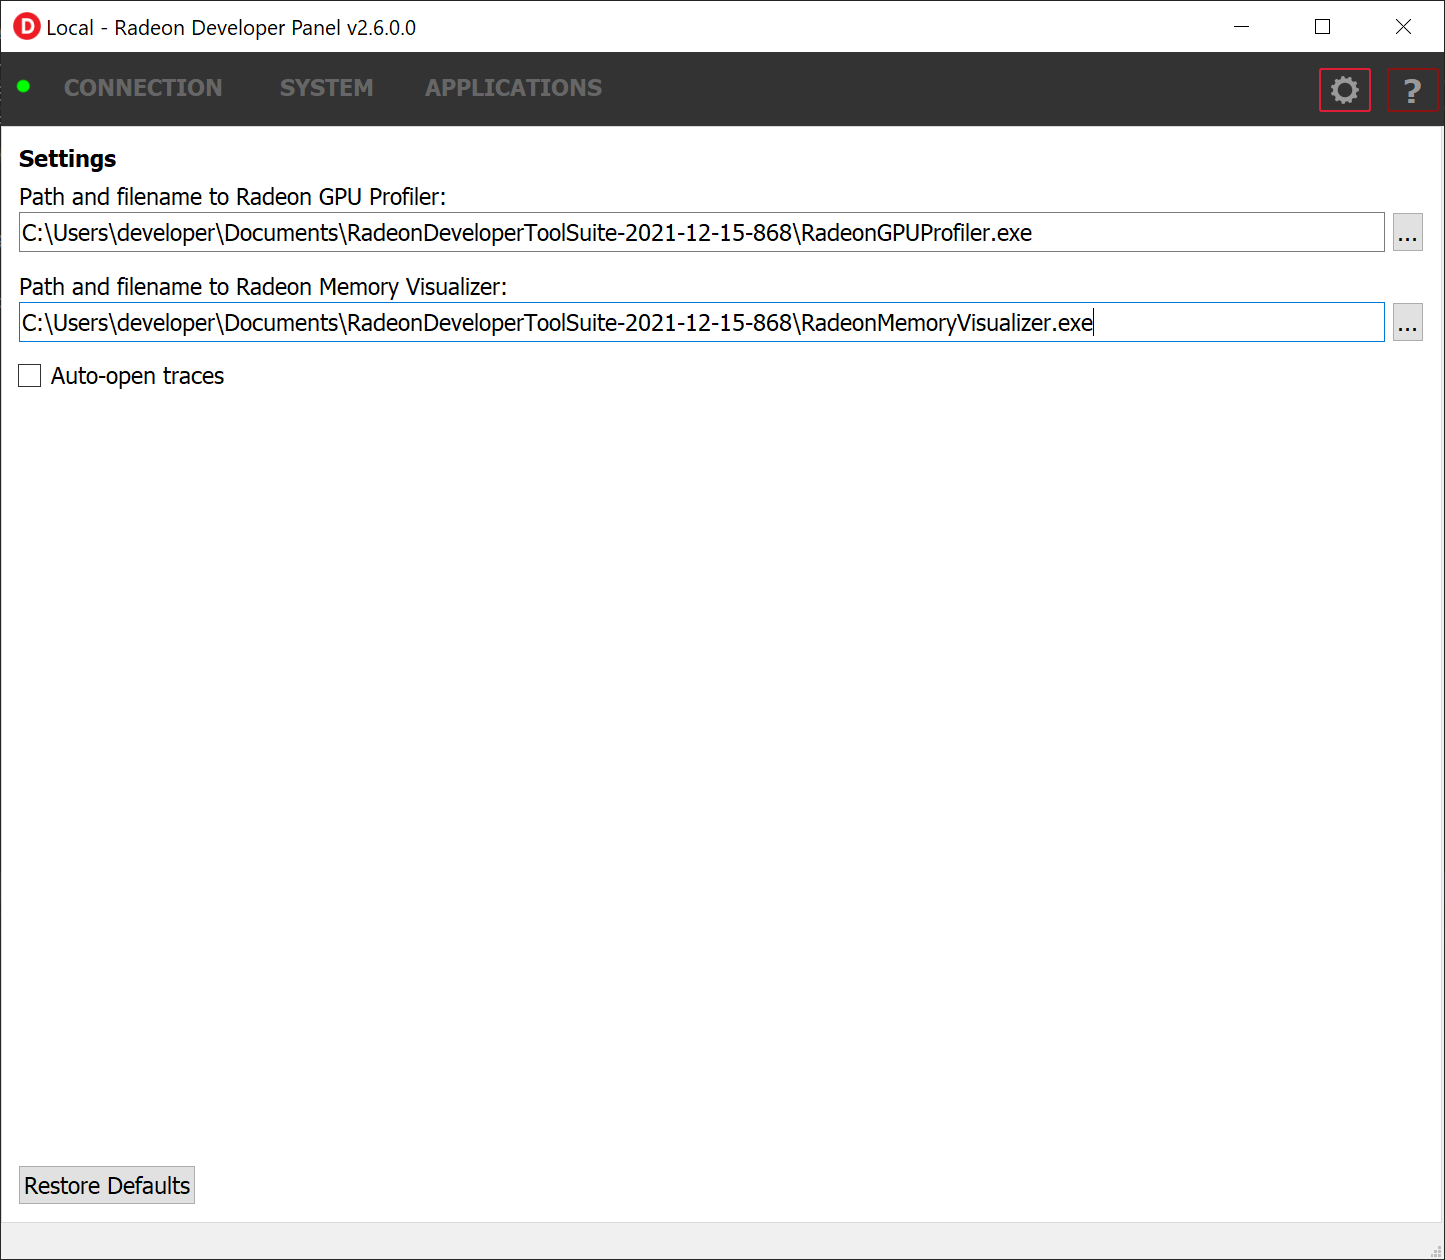
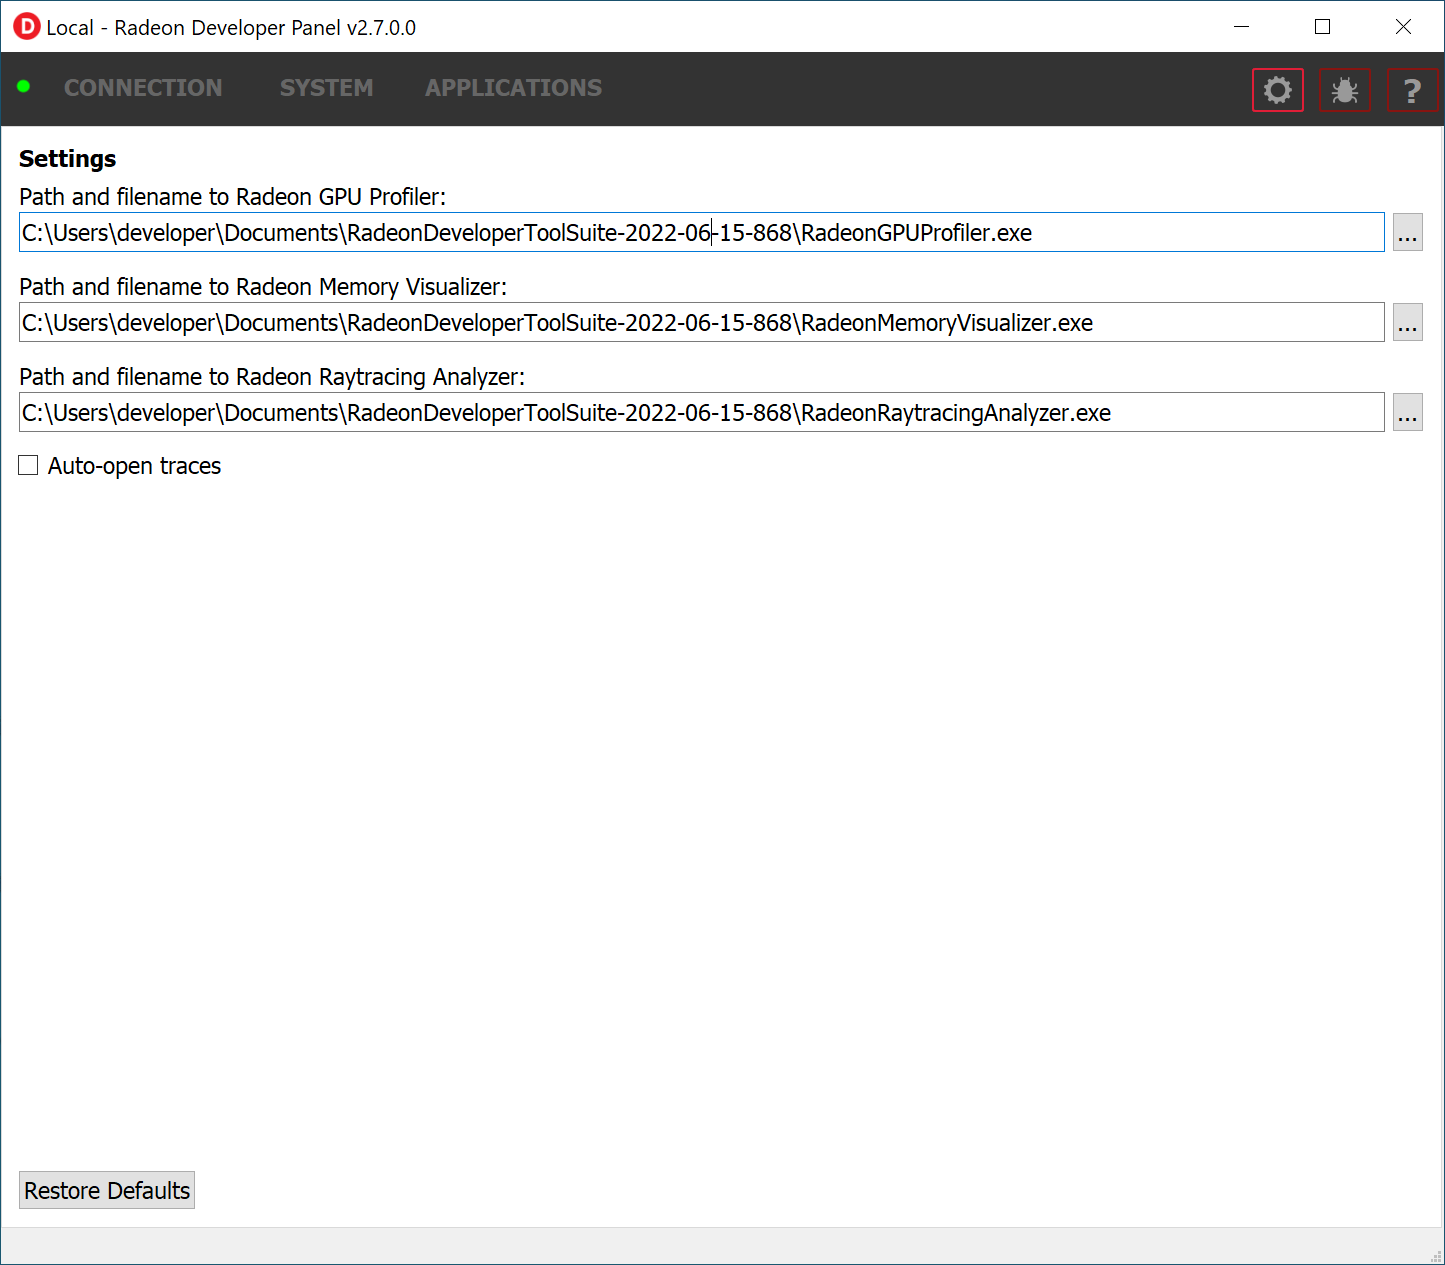
Update documentation for version 2.7 release

diff --git a/docs/source/_static/theme_overrides.css b/docs/source/_static/theme_overrides.css
@@ -1,13 +1,1 @@
-
-
-img {
-  max-width: 100%;
-  max-height: auto;
-  box-shadow: 6px 6px #eee;
-  -ms-interpolation-mode: bicubic;
-  border: 1px solid #ccc;
-}
-
-table {
-	font-size: 12px;
-}
+/* Copyright (c) 2022 AMD Inc. All rights reserved. */

diff --git a/docs/source/conf.py b/docs/source/conf.py
@@ -54,9 +54,9 @@ author = u'AMD Developer Tools'
 # built documents.
 #
 # The short X.Y version.
-version = u'2.6.1'
+version = u'2.7.0'
 # The full version, including alpha/beta/rc tags.
-release = u'2.6.1'
+release = u'2.7.0'
 
 # The language for content autogenerated by Sphinx. Refer to documentation
 # for a list of supported languages.
@@ -116,7 +116,7 @@ html_static_path = ['_static']
 # file works better with read the docs (more so than specifying it via the
 # html_context tag)
 def setup(app):
-    app.add_stylesheet('theme_overrides.css')
+    app.add_css_file('theme_overrides.css')
 
 
 html_show_sourcelink = False

diff --git a/docs/source/index.rst b/docs/source/index.rst
@@ -27,14 +27,19 @@ and GCN hardware. The suite is comprised of the following software:
 -  **Radeon Memory Visualizer (RMV)** - A GUI tool used to visualize and analyze
    the memory trace data.
 
+-  **Radeon Raytracing Analyzer (RRA)** - A GUI tool used to visualize and analyze
+   the raytracing data.
+
    This document describes how the Radeon Developer Panel can be used to capture
-   a profile or collect a memory trace for an application on AMD RDNA and GCN graphics hardware. The
+   a profile, memory trace or a raytracing scene for an application on AMD RDNA and GCN graphics hardware. The
    Radeon Developer Panel connects to the Radeon Developer Service in
-   order to collect a profile or trace.
+   order to collect a profile, trace or scene.
 
    **RGP documentation:** http://radeon-gpuprofiler.readthedocs.io/en/latest/
 
    **RMV documentation:** https://radeon-memory-visualizer.readthedocs.io/en/latest/
+
+   **RRA documentation:** http://radeon-raytracing-analyzer.readthedocs.io/en/latest/
 
    **Note:** By default, the driver allocates a maximum of 75 MB video
    memory per Shader Engine to capture RGP profiles. The driver allocates
@@ -78,6 +83,8 @@ Graphics APIs, RDNA and GCN hardware, and operating systems
 
 -  Ubuntu 20.04 LTS (Vulkan only)
 
+-  Ubuntu 22.04 LTS (Vulkan only)
+
 Compute APIs, RDNA and GCN hardware, and operating systems
 --------------------------------------------------------------------
 
@@ -107,7 +114,7 @@ Initial setup
 =============
 
 **IMPORTANT:**
-      The application you want to profile or trace must **NOT** already be
+      The application you want to profile, trace or capture scenes from must **NOT** already be
       running. The panel needs to be configured in advance of starting your
       application.
 
@@ -182,7 +189,7 @@ My applications
 ---------------
 
 The **My applications** pane in Radeon Developer Panel contains the list of applications the user
-will want to connect with to profile or trace.
+will want to connect with to capture a profile, trace or scene from.
 
 There are two modes of connection available.
 
@@ -216,6 +223,14 @@ start a driver connection.
 When a connection to the client application has
 been established, the panel will then switch to the **Applications** tab.
 
+When in **Basic Mode**, the global workflow can also be changed in the **Applications** tab. The dropdown on this tab is synced with the one in the **My applications** pane.
+
+.. image:: media/Global_Workflow_1.png
+
+In **Advanced Mode**, the workflow for a specific application can also be changed by selecting it in the **Applications** tab and changing the Workflow dropdown. Any changes made to this dropdown will be reflected in the **My applications** pane.
+
+.. image:: media/Advanced_Mode_App_Workflow_1.png
+
 .. _MyWorkflows:
 
 My workflows
@@ -224,12 +239,12 @@ My workflows
 The **My workflows** pane in Radeon Developer Panel allows the user to specify a set of enabled features and pre-launch
 configuration options to be used when connecting an application.
 
-Defining a workflow to contain these pre-launch settings such as the profile/trace output
+Defining a workflow to contain these pre-launch settings such as the profile/trace/scene output
 path or capture mode allows for re-use of the settings across multiple applications.
 
 .. image:: media/Workflow_1.png
 
-Each workflow contains a list of features such as **Profiling**, **MemoryTrace**, or **DeviceClocks** which
+Each workflow contains a list of features such as **Profiling**, **MemoryTrace**, **Raytracing**, or **DeviceClocks** which
 can be enabled or disabled
 
 There are also configuration options available for these features:
@@ -277,6 +292,16 @@ The following are the configurable options for memory trace
 
 .. image:: media/Workflow_MemoryTrace_Config.png
 
+**Raytracing Trace Configuration**
+
+The following are the configurable options for raytracing
+
+- **Output Path**:
+   * Defines the output path for saving captured raytracing scenes
+   * Use the macro **$(APP_NAME)** to insert the connected application's name into path
+
+.. image:: media/Workflow_Raytracing_Config.png
+
 .. _BlockedApplications:
 
 Blocked applications
@@ -316,6 +341,8 @@ The profiling UI has the following elements:
 
 - **Collect counters** - Enables capturing GPU cache counter data. Systems with an AMD Radeon RX 6000 series GPU will also collect raytracing counter data.
 
+- **Delay capture** - If this is enabled, pressing the capture profile button or triggering the hotkey will first wait the entered number of milliseconds before capturing a profile.
+
 - **Recently collected profiles** - Displays any recently collected profiles found in the output directory
 
 Capturing a profile can be achieved by the following:
@@ -344,14 +371,14 @@ Settings
 At any time the Radeon Developer Panel settings can be accessed by clicking the gear button in the upper right corner. This will open the
 settings pane.
 
-After capturing a profile or trace for an application, it is often desirable to open the output
-file using the associated tool such as **Radeon GPU Profiler** and **Radeon Memory Visualizer**.
+After capturing a profile, trace or scene from an application, it is often desirable to open the output
+file using the associated tool such as **Radeon GPU Profiler**, **Radeon Memory Visualizer** or **Radeon Raytracing Analyzer**.
 
 The settings pane allows for choosing the global path to the tool to be used by Radeon Developer Panel to open
-captured profiles or traces.
+captured profiles, traces and scenes.
 
 Additionally, the settings pane contains the Auto open traces toggle which will cause Radeon Developer Panel to open a captured
-profile or trace with the correct tool as soon as it is taken.
+profile, trace or scene with the correct tool as soon as it is captured.
 
 A **Restore Defaults** button allows for resetting the path and auto open settings to their default values. For the paths, this
 will reset them to the panel's executable path directory.
@@ -409,6 +436,41 @@ Example output:
       Once a memory trace has finished either through closing the application or
       through clicking the **Dump trace** button. The application **MUST** be
       closed and re-launched to start a new memory trace.
+
+
+How to capture a raytracing scene from your application
+=======================================================
+
+Upon running an application successfully the panel will have switched
+to the **Applications** tab shown here:
+
+.. image:: media/Raytracing_1.png
+
+The raytracing UI has the following elements:
+
+- **Capture scene** - Captures a scene and writes to disk
+
+- **Recently collected scenes** - Displays any recently collected scenes found in the output directory
+
+Capturing a scene can be achieved by the following:
+
+* **Click the Capture scene button**
+
+   Clicking the **Capture scene** button from the Raytracing UI will capture a raytracing scene and write the results to disk.
+
+* **Use the Ctrl-F8 hotkey**
+
+   Using Ctrl-F8 default hotkey on Windows or Linux® will capture a raytracing scene and write the results to disk.
+
+   This can be configured **before launching an application** by clicking the edit button to the right of the hotkey label and then entering a series of key presses.
+
+Example output:
+
+   sample-20220705-104021.rra
+
+**NOTE**
+   The scene output directory is specified as part of the associated **workflow** with this application
+   entry in the **My applications** list
 
 
 Using the Clock settings
@@ -511,6 +573,13 @@ before starting the Radeon Developer Panel. If the service isn’t
 running, the Radeon Developer Panel will automatically start the UI
 version of the Radeon Developer Service, which may not be what is
 required.
+
+Bug Report
+==========
+
+At any time, a bug report template can be generated by clicking the bug button in the upper right corner. This will copy a template to your clipboard with relevant information such as the graphics cards and operating system of the connected system.
+
+When reporting bugs, please use the generated template and fill in the description and proper steps to reproduce the issue marked by the **"(fill me in)"** sections.
 
 Known Issues
 ============
